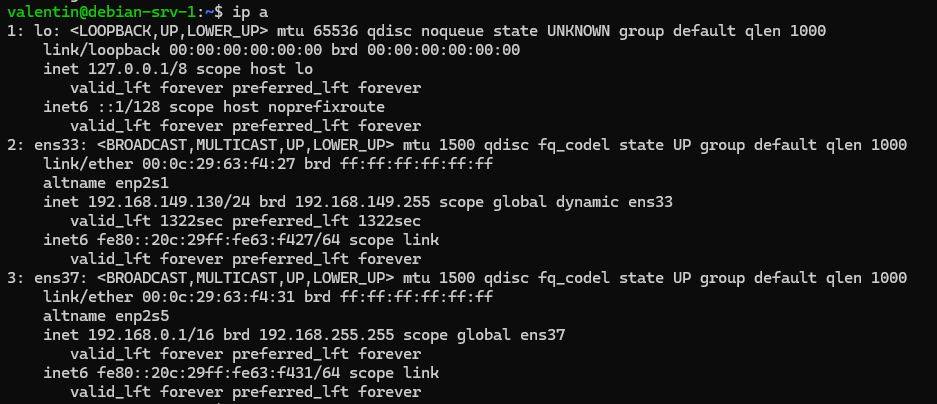
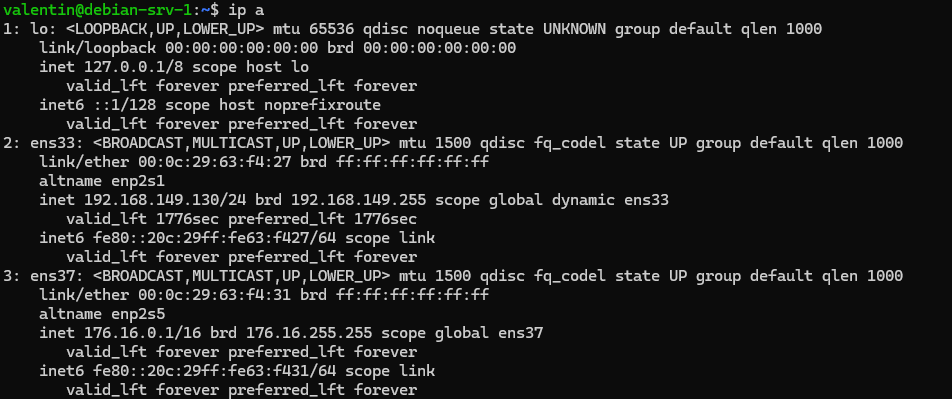
GITBOOK-23: change request with no subject merged in GitBook

Changed region(s): [[0.0, 0.0, 0.9904, 1.0]]

diff --git a/server/cree-un-serveur-dhcp-sous-debian.md b/server/cree-un-serveur-dhcp-sous-debian.md
@@ -1,6 +1,6 @@
 # Crée un serveur DHCP sous Débian
 
-### Installation de DHCP
+Installation de DHCP
 
 Pour installer un serveur DHCP il faut installer le paquet `isc-dhcp-server`
 
@@ -17,7 +17,7 @@ Pour installer un serveur DHCP il faut installer le paquet `isc-dhcp-server`
 
 Récupération de l'interface de notre carte réseau grâce à la commande `ip a`
 
-<figure><img src="../.gitbook/assets/image.png" alt=""><figcaption><p>Retours de la commande ip a</p></figcaption></figure>
+<figure><img src="../.gitbook/assets/image (5).png" alt=""><figcaption><p>Retours de la commande ip a</p></figcaption></figure>
 
 Ici, ma carte réseau sera `ens37`, mais je peux aussi utilisé son nom alternatif `enp2s5`
 
@@ -29,13 +29,13 @@ Dans mon cas, mon réseau aura pour bloc IP `172.16.0.0/16` et mon interface : `
 # DHCP
 auto ens37
 iface ens37 inet static
- address 176.16.0.1 #Address de votre serveur DHCP
+ address 172.16.0.1 #Address de votre serveur DHCP
  netmask 255.255.0.0 #Masque de sous réseau, dans mon cas IP de classe B
- gateway 176.16.0.1 #Gateway
- dns-nameservers 176.16.0.1 #Serveur DNS, vous pouvez ne pas en renseigné ou renseigné votre DNS Interne ou un DNS Publique
+ gateway 172.16.0.1 #Gateway
+ dns-nameservers 172.16.0.1 #Serveur DNS, vous pouvez ne pas en renseigné ou renseigné votre DNS Interne ou un DNS Publique
 ```
 
-<figure><img src="../.gitbook/assets/vmware_6XKHfPc6gG.png" alt=""><figcaption><p>Configuration dans le fichier de configuration</p></figcaption></figure>
+<figure><img src="../.gitbook/assets/image (4).png" alt=""><figcaption></figcaption></figure>
 
 On redémarre la machine pour que la configuration s'applique
 
@@ -44,13 +44,15 @@ sudo shutdown -r now
 ```
 
 Et voila on a notre IP !\
-![](<../.gitbook/assets/image (2).png>)
+
+
+<figure><img src="../.gitbook/assets/image (24).png" alt=""><figcaption></figcaption></figure>
 
 ## Configuration du serveur DHCP
 
 #### Récupération de l'interface de notre carte réseau grâce a la commande `ip a`
 
-![](<../.gitbook/assets/image (3).png>)
+<figure><img src="../.gitbook/assets/image (25).png" alt=""><figcaption></figcaption></figure>
 
 Ici dans mon cas mon interface pour le DHCP c'est `ens37`
 
@@ -73,7 +75,7 @@ INTERFACESv4="ens37"
 
 Dans mon cas c'est `ens37`
 
-<figure><img src="../.gitbook/assets/image (4).png" alt=""><figcaption></figcaption></figure>
+<figure><img src="../.gitbook/assets/image (4) (1).png" alt=""><figcaption></figcaption></figure>
 
 #### On va modifier maintenant le fichier **`/etc/dhcp/dhcpd.conf`**
 
@@ -86,15 +88,15 @@ max-lease-time 172800;
 option domain-name     "vm.local";
  
 # Déclaration d'un réseau
-subnet 176.16.0.0 netmask 255.255.0.0 {
-        range                           192.168.0.100 192.168.255.250; # Plage IP
+subnet 172.16.0.0 netmask 255.255.0.0 {
+        range                           172.16.0.100 172.31.255.250; # Plage IP
         option domain-name-servers      1.1.1.1; # DNS Cloudflare
-        option routers                  192.168.1.1; # Passerelle
+        option routers                  172.16.0.1; # Passerelle
 }
  
 ```
 
-<figure><img src="../.gitbook/assets/image (22).png" alt=""><figcaption></figcaption></figure>
+<figure><img src="../.gitbook/assets/image (3).png" alt=""><figcaption></figcaption></figure>
 
 Et on active et démarre le service&#x20;
 

diff --git a/README.md b/README.md
@@ -16,15 +16,15 @@ description: >-
 
 * Puis dans CT Modèles -> Template
 
-![Ct Template Panel](<.gitbook/assets/image (4) (1).png>)
+![Ct Template Panel](<.gitbook/assets/image (4) (1) (1).png>)
 
 * Sélectionner le template que vous souhaitez télécharger
 
-![Ici par exemple Centos 8](<.gitbook/assets/image (1) (1).png>)
+![Ici par exemple Centos 8](<.gitbook/assets/image (1) (1) (1).png>)
 
 * Patienter le temps du téléchargement
 
-![Téléchargement de l'image de CentOS 8](<.gitbook/assets/image (5).png>)
+![Téléchargement de l'image de CentOS 8](<.gitbook/assets/image (5) (1).png>)
 
 2\. Créer la machine
 
@@ -38,7 +38,7 @@ description: >-
 
 ![Ecran 1](<.gitbook/assets/image (1) (2).png>)
 
-![Choix du template](<.gitbook/assets/image (3) (1) (1) (1).png>)
+![Choix du template](<.gitbook/assets/image (3) (1) (1) (1) (1).png>)
 
 ![taille du disque](<.gitbook/assets/image (8).png>)
 

diff --git a/server/wireguard-avec-un-endpoint-en-ipv6-avec-vos-propre-ipv6.md b/server/wireguard-avec-un-endpoint-en-ipv6-avec-vos-propre-ipv6.md
@@ -25,7 +25,7 @@ Pour cette exemple je vais utiliser une machine herberger sur Microsoft Oracle C
 
 * Allez dans "Exemple Configurations" -> Votre OS
 
-![](<../.gitbook/assets/image (2) (1).png>)
+![](<../.gitbook/assets/image (2) (1) (2).png>)
 
 * Copier la configuration dans `/etc/network/interfaces` &#x20;
 * Si vous avez (comme moi) netplan, ce n'est pas si simple...
@@ -92,7 +92,7 @@ Et voila votre serveur a de l'IPv6 !
 
 
 
-![](<../.gitbook/assets/image (3) (1) (1).png>)
+![](<../.gitbook/assets/image (3) (1) (1) (1).png>)
 
 3\. On va utiliser un petit script interactif :&#x20;
 
